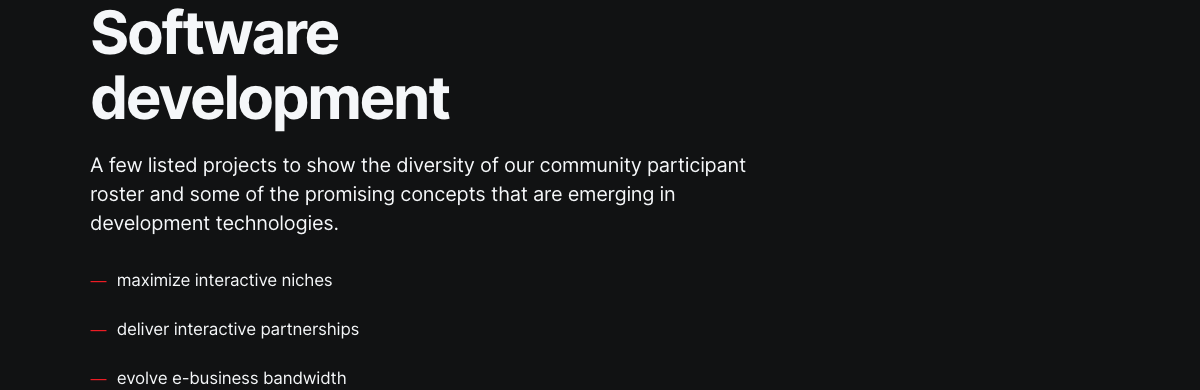
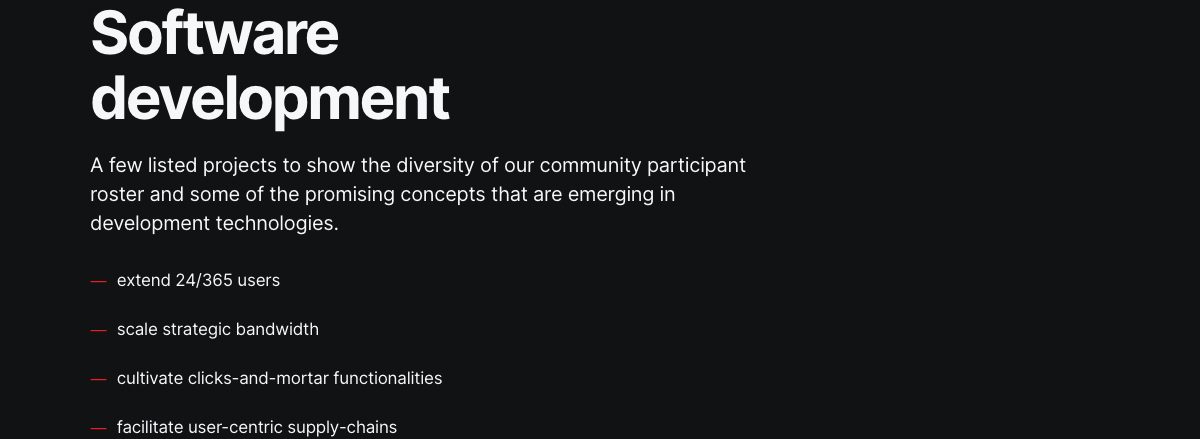
MAR-1543 Corrected layout, options for Text slice

diff --git a/.slicemachine/assets/client/prismicSlices/pageParts/TextSlice/index.stories.js b/.slicemachine/assets/client/prismicSlices/pageParts/TextSlice/index.stories.js
@@ -18,7 +18,7 @@ export const _DefaultSlice = () => ({
   },
   data() {
     return {
-      mock: {"variation":"default-slice","name":"Default slice","slice_type":"text_slice","items":[],"primary":{"large":false,"text":"A few listed projects to show the diversity of our community participant roster and some of the promising concepts that are emerging in development technologies.","colorTheme":"white","background":"black","maxWidth":"1028px"},"id":"_DefaultSlice"}
+      mock: {"variation":"default-slice","name":"Default slice","slice_type":"text_slice","items":[],"primary":{"large":true,"text":"A few listed projects to show the diversity of our community participant roster and some of the promising concepts that are emerging in development technologies.","colorTheme":"white","maxWidth":"1028px"},"id":"_DefaultSlice"}
     }
   },
   template: '<SliceZone :slices="[mock]" :resolver="resolve" />'
@@ -94,7 +94,7 @@ export const _TitleTextList = () => ({
   },
   data() {
     return {
-      mock: {"variation":"titleTextList","name":"Title + Text + List","slice_type":"text_slice","items":[{"listItem":"maximize interactive niches"},{"listItem":"deliver interactive partnerships"},{"listItem":"evolve e-business bandwidth"}],"primary":{"title":"Software <br /> development","text":"A few listed projects to show the diversity of our community participant roster and some of the promising concepts that are emerging in development technologies.","colorTheme":"white","background":"black","maxWidth":"1028px"},"id":"_TitleTextList"}
+      mock: {"variation":"titleTextList","name":"Title + Text + List","slice_type":"text_slice","items":[{"listItem":"extend 24/365 users"},{"listItem":"scale strategic bandwidth"},{"listItem":"cultivate clicks-and-mortar functionalities"},{"listItem":"facilitate user-centric supply-chains"}],"primary":{"title":"Software <br /> development","text":"A few listed projects to show the diversity of our community participant roster and some of the promising concepts that are emerging in development technologies.","colorTheme":"white","background":"black","maxWidth":"1028px"},"id":"_TitleTextList"}
     }
   },
   template: '<SliceZone :slices="[mock]" :resolver="resolve" />'

diff --git a/client/prismicSlices/pageParts/TextSlice/index.vue b/client/prismicSlices/pageParts/TextSlice/index.vue
@@ -1,15 +1,11 @@
 <template>
   <section
     class="text-slice"
-    :style="{
-      backgroundColor: sliceBackground,
-    }"
+    :class="colorThemeClass"
   >
     <div
       class="container"
-      :style="{
-        maxWidth: slice.primary.maxWidth,
-      }"
+      :style="{ maxWidth: slice.primary.maxWidth }"
     >
       <SimpleText
         v-if="slice.variation === 'default-slice'"
@@ -64,10 +60,9 @@ export default {
   },
 
   computed: {
-    sliceBackground() {
-      if (this.slice.primary.background === 'white') return '#fff'
-      if (this.slice.primary.background === 'grey') return '#f5f7f9'
-      return '#111213' // black
+    colorThemeClass() {
+      if (this.slice?.primary?.colorTheme === 'white') return 'text-slice--white-theme'
+      return 'text-slice--black-theme'
     },
   },
 }
@@ -76,6 +71,14 @@ export default {
 <style lang="scss" scoped>
 .text-slice {
   word-break: break-word;
+  &--white-theme {
+    background-color: $bgcolor--white-primary;
+    color: $text-color--black-lighter;
+  }
+  &--black-theme {
+    background-color: $bgcolor--black;
+    color: $text-color--white;
+  }
 }
 
 /deep/ h1,
@@ -89,6 +92,7 @@ export default {
   }
   @media screen and (max-width: 768px) {
     font-size: 40px;
+    line-height: 40px;
   }
 }
 

diff --git a/client/prismicSlices/pageParts/TextSlice/variations/TitleTextList.vue b/client/prismicSlices/pageParts/TextSlice/variations/TitleTextList.vue
@@ -1,10 +1,5 @@
 <template>
-  <div
-    :class="[
-      'text-slice__content',
-      `text-slice__content--${colorTheme}-theme`,
-    ]"
-  >
+  <div class="text-slice__content">
     <div class="text-slice__content-text">
       <h2 v-html="title" />
       <p>{{ text }}</p>
@@ -68,12 +63,6 @@ export default {
   display: flex;
   align-items: flex-end;
   justify-content: space-between;
-  &--white-theme {
-    color: $text-color--white;
-  }
-  &--black-theme {
-    color: $text-color--black-lighter;
-  }
   @media screen and (max-width: 1300px) {
     flex-direction: column;
     align-items: flex-start;
@@ -81,7 +70,7 @@ export default {
   }
 
   h1, h2, h3 {
-    @include font('Inter', 60px, 700);
+    @include font('Inter', 60px, 800);
     line-height: 65px;
     letter-spacing: -0.04em;
     @media screen and (max-width: 1024px) {
@@ -113,6 +102,10 @@ export default {
   &-text {
     width: 100%;
     max-width: 692px;
+    margin-right: 20px;
+    @media screen and (max-width: 1300px) {
+      margin-right: 0;
+    }
   }
 
   &-list {
@@ -123,7 +116,7 @@ export default {
     li {
       display: flex;
       align-items: flex-start;
-      margin-bottom: 25px;
+      margin-bottom: 20px;
       &:last-child {
         margin-bottom: 0;
       }

diff --git a/client/prismicSlices/pageParts/TextSlice/variations/SimpleText.vue b/client/prismicSlices/pageParts/TextSlice/variations/SimpleText.vue
@@ -1,10 +1,7 @@
 <template>
   <p
-    :class="[
-      'text-slice__content',
-      `text-slice__content--${colorTheme}-theme`,
-      large ? 'text-slice__content text-slice__content--large' : null,
-    ]"
+    class="text-slice__content"
+    :class="{ 'text-slice__content--large': large }"
   >
     {{ text }}
   </p>
@@ -24,30 +21,15 @@ export default {
       required: true,
       default: '',
     },
-
-    colorTheme: {
-      type: String,
-      default: 'white',
-    },
   },
 }
 </script>
 
 <style lang="scss" scoped>
 .text-slice__content {
-  display: flex;
-  flex-direction: column;
-  justify-content: center;
-  align-items: center;
   text-align: center;
-  &--white-theme {
-    color: $text-color--white;
-  }
-  &--black-theme {
-    color: $text-color--black-lighter;
-  }
   &--large {
-    font-weight: 700;
+    font-weight: 600;
     font-size: 60px;
     line-height: 70px;
     @media screen and (max-width: 1024px) {

diff --git a/client/prismicSlices/pageParts/TextSlice/variations/TitleTextButton.vue b/client/prismicSlices/pageParts/TextSlice/variations/TitleTextButton.vue
@@ -1,10 +1,5 @@
 <template>
-  <div
-    :class="[
-      'text-slice__content',
-      `text-slice__content--${colorTheme}-theme`,
-    ]"
-  >
+  <div class="text-slice__content">
     <h2>{{ title }}</h2>
     <p>{{ text }}</p>
     <a
@@ -65,13 +60,6 @@ export default {
   justify-content: center;
   align-items: center;
   text-align: center;
-  &--white-theme {
-    color: $text-color--white;
-  }
-  &--black-theme {
-    color: $text-color--black-lighter;
-  }
-
   p {
     margin: 50px 0;
     @media screen and (max-width: 1024px) {
@@ -85,6 +73,7 @@ export default {
   button {
     padding: 14px 24px;
     line-height: 20px;
+    letter-spacing: -0.4px;
     &:hover {
       background-color: lighten($bgcolor--red, 10%) !important;
     }

diff --git a/client/prismicSlices/pageParts/TextSlice/variations/Title.vue b/client/prismicSlices/pageParts/TextSlice/variations/Title.vue
@@ -1,10 +1,5 @@
 <template>
-  <h2
-    :class="[
-      'text-slice__content',
-      `text-slice__content--${colorTheme}-theme`,
-    ]"
-  >
+  <h2 class="text-slice__content">
     {{ title }}
   </h2>
 </template>
@@ -29,16 +24,6 @@ export default {
 
 <style lang="scss" scoped>
 .text-slice__content {
-  display: flex;
-  flex-direction: column;
-  justify-content: center;
-  align-items: center;
   text-align: center;
-  &--white-theme {
-    color: $text-color--white;
-  }
-  &--black-theme {
-    color: $text-color--black-lighter;
-  }
 }
 </style>

diff --git a/client/prismicSlices/pageParts/TextSlice/variations/TitleText.vue b/client/prismicSlices/pageParts/TextSlice/variations/TitleText.vue
@@ -1,10 +1,5 @@
 <template>
-  <div
-    :class="[
-      'text-slice__content',
-      `text-slice__content--${colorTheme}-theme`,
-    ]"
-  >
+  <div class="text-slice__content">
     <h2>{{ title }}</h2>
     <p>{{ text }}</p>
   </div>
@@ -41,13 +36,6 @@ export default {
   justify-content: center;
   align-items: center;
   text-align: center;
-  &--white-theme {
-    color: $text-color--white;
-  }
-  &--black-theme {
-    color: $text-color--black-lighter;
-  }
-
   p {
     margin-top: 50px;
     @media screen and (max-width: 1024px) {

diff --git a/client/assets/styles/_base.scss b/client/assets/styles/_base.scss
@@ -1,4 +1,4 @@
-@import url('https://fonts.googleapis.com/css2?family=IBM+Plex+Mono&family=Inter:wght@300;400;600;700&family=Poppins:wght@600;700&display=swap');
+@import url('https://fonts.googleapis.com/css2?family=IBM+Plex+Mono&family=Inter:wght@300;400;600;700;800&family=Poppins:wght@600;700&display=swap');
 
 body {
   margin: 0;
